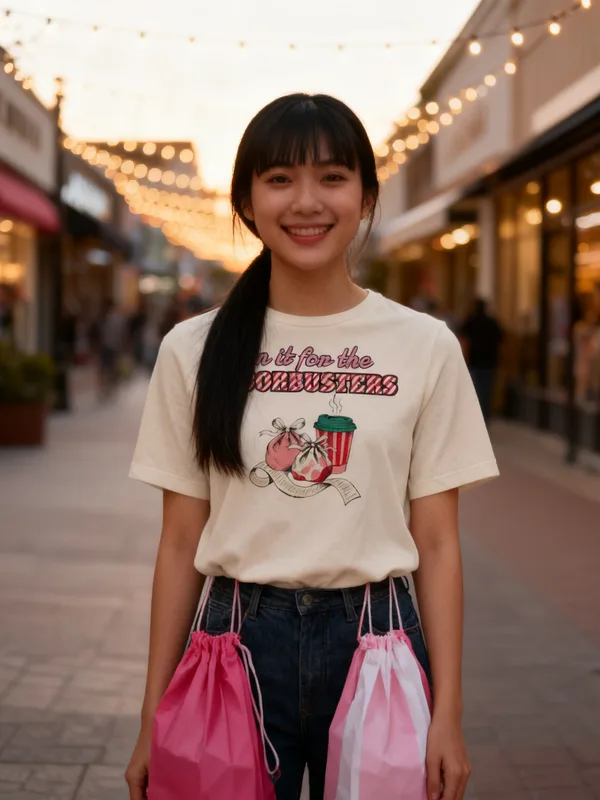
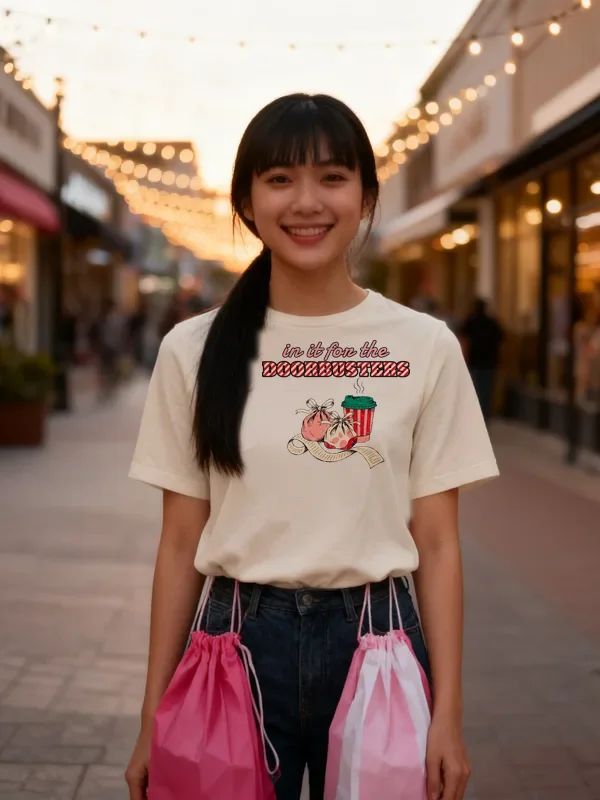
[C] review 281 doorbusters tee (composite cover, copy fixes)

Changed region(s): [[0.39, 0.4062, 0.69, 0.625], [0.66, 0.5938, 0.69, 0.6562]]

diff --git a/docs/pipeline/281-black-friday-in-it-for-the-doorbusters.md b/docs/pipeline/281-black-friday-in-it-for-the-doorbusters.md
@@ -1,4 +1,4 @@
-status: BUILDING [C] 2026-10-17 22:58
+status: REVIEW
 lane: C
 type: new
 id: 281
@@ -32,3 +32,4 @@ kd: 46
   1. R6.9 (hair): her ponytail covers the D, so the cover reads OORBUSTERS. This is the 3rd attempt, so don't generate again: composite the exact front print from the Cream/Natural Printful mockup onto this cover's chest in print-prep (perspective fit, multiply blend), then repaint the hair strand behind the shoulder or layer it under the print, and read DOORBUSTERS letter by letter. No fal spend.
   2. Copy (R8.4/R8.5): the SEO title is 65 characters, so cut it to 60 or fewer. In the meta, "Black friday" should be "Black Friday". A sentence starts in lower case ("in it for the…"), and "two bows-tied shopping bags" has a typo.
   3. (Withdrawn by the director: "Original art, made for Graphic Tees Co." is the SOP line for ai-art and stays.)
+- 2026-10-17 23:00 UTC builder [C]: REDO done: cover now carries the exact front print composited from the Natural mockup (hair left alone behind, old print cleared; reads in it for the / DOORBUSTERS, checked at zoom); SEO title 56 chars, meta capital Black Friday, story sentence fixed ('The words "in it for the" sit...', 'bow-tied'). No fal spend.

diff --git a/docs/intake-log.md b/docs/intake-log.md
@@ -1,3 +1,4 @@
+2026-10-17 23:00 UTC — [C] REVIEW #281 (REDO: composite cover, copy fixes).
 RUNNING lane A since 2026-10-17 23:00 UTC
 RUNNING lane C since 2026-10-17 22:53 UTC
 2026-10-17 22:51 UTC — [D] Director run: inbox 1 (turkey hoodie collision → Pilgrim hoodie now 'pilgrim turkey' 480/KD30). Reviewed 48 REVIEW sheets: 34 LIVE (all ACTIVE + Online Store/Headless/Google, audit PASS 0 warn, all 34 pages 200), 16 REDO with rule-numbered notes. Recurring: cover hair over the first letter (6) and hoodie covers without a hood (4) → R6.9 composite-first line + builder card 9b (no known cover defect goes to REVIEW). live-rebuild.yml now queues instead of cancelling (the 8-min wait never finished under 4 busy lanes; nightly-rebuild run by hand once). 9 new briefs #503-#511 (golf hoodies + crew, national park hoodies); READY: A 22, B 12, C 12, E 12. #256 #445 #459 to reference/best. Telegram sent. Lock released.
